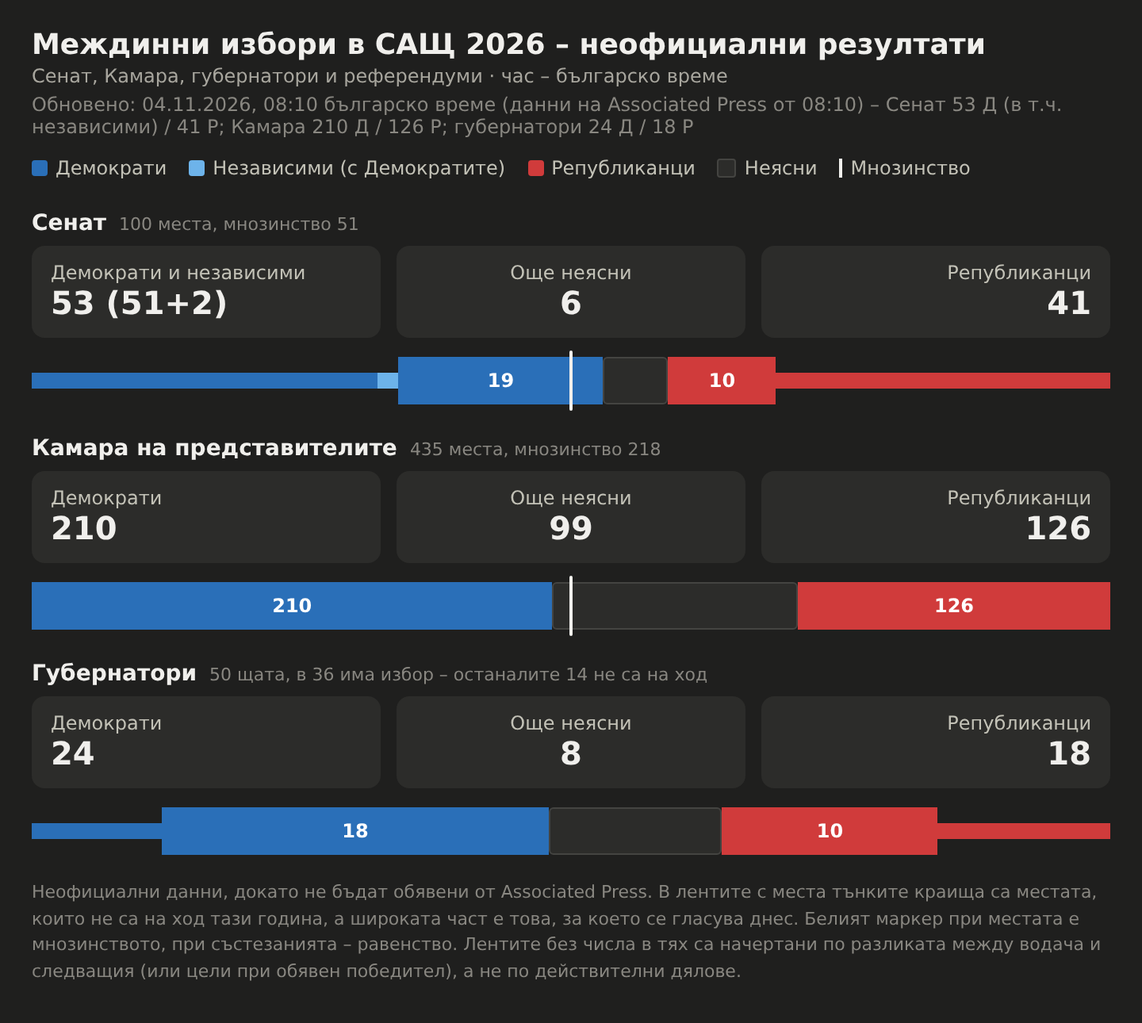
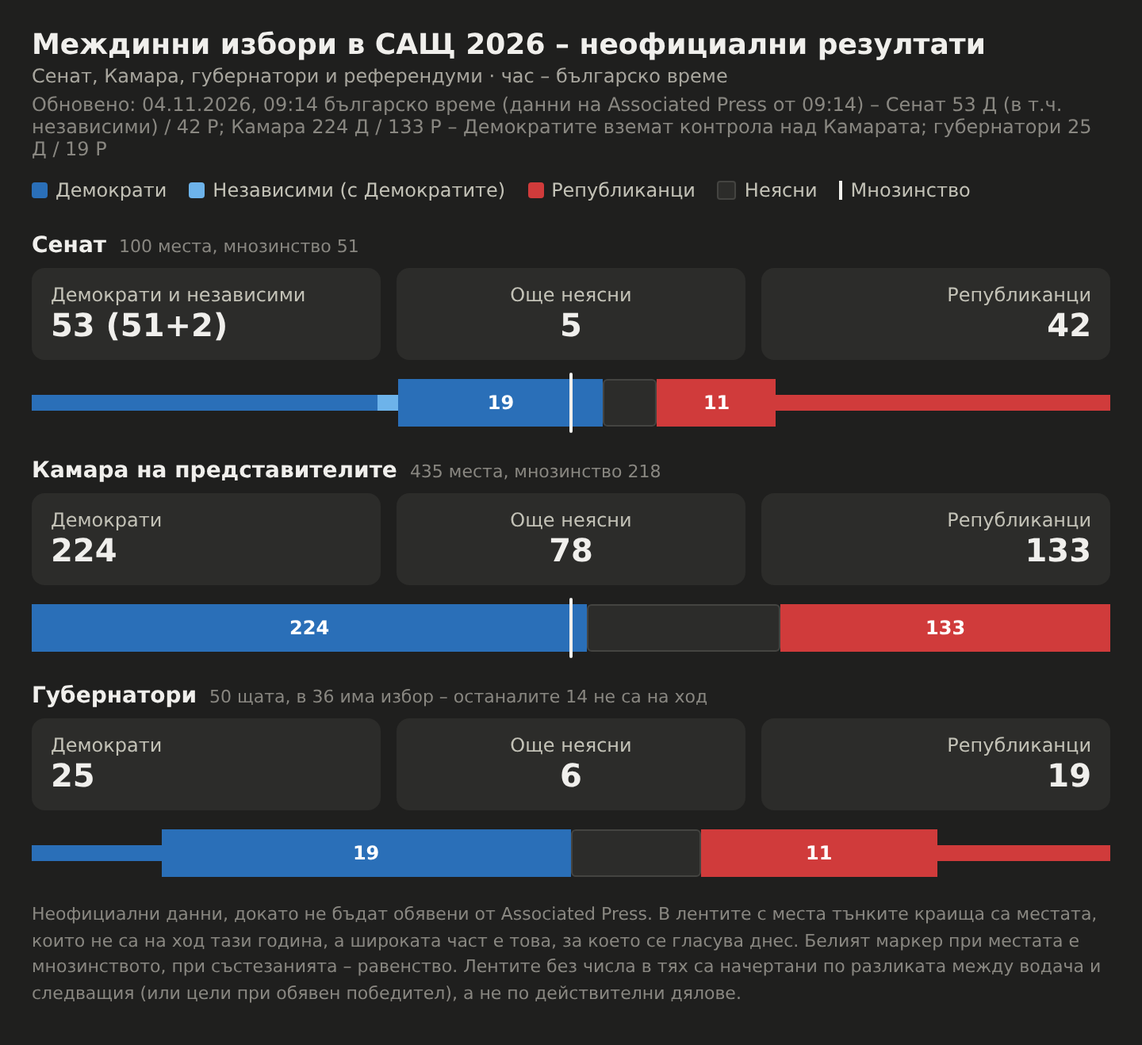
Обновяване 09:14 българско време: Демократите вземат Камарата; Сенат 53–42, губернатори 25–19
Claude-Session: https://claude.ai/code/session_013Bd4dyDeBGD9vdxVJ9tN9V

diff --git a/us-midterms-2026.11.03.html b/us-midterms-2026.11.03.html
@@ -53,13 +53,13 @@ h1{font-size:18px;font-weight:600;margin:0 0 2px}
 .empty{font-size:13px;color:var(--text-muted);padding:10px 0}
 .foot{font-size:11px;color:var(--text-muted);margin-top:16px;line-height:1.5}
 </style></head><body><div class="wrap">
-<h1>Междинни избори в САЩ 2026 – неофициални резултати</h1><div class="sub">Сенат, Камара, губернатори и референдуми · час – българско време</div><div class="upd">Обновено: 04.11.2026, 08:10 българско време (данни на Associated Press от 08:10) – Сенат 53 Д (в т.ч. независими) / 41 Р; Камара 210 Д / 126 Р; губернатори 24 Д / 18 Р</div>
+<h1>Междинни избори в САЩ 2026 – неофициални резултати</h1><div class="sub">Сенат, Камара, губернатори и референдуми · час – българско време</div><div class="upd">Обновено: 04.11.2026, 09:14 българско време (данни на Associated Press от 09:14) – Сенат 53 Д (в т.ч. независими) / 42 Р; Камара 224 Д / 133 Р – Демократите вземат контрола над Камарата; губернатори 25 Д / 19 Р</div>
 <div class="tabs" id="tabs"></div>
 <div id="view"></div>
 <div class="foot">Неофициални данни, докато не бъдат обявени от Associated Press. В лентите с места тънките краища са местата, които не са на ход тази година, а широката част е това, за което се гласува днес. Белият маркер при местата е мнозинството, при състезанията – равенство. Лентите без числа в тях са начертани по разликата между водача и следващия (или цели при обявен победител), а не по действителни дялове. Щракни на ред, за да видиш как се е променял или кои са окръзите на щата.</div>
 </div>
 <script>
-var DATA={"title": "Междинни избори в САЩ 2026 – неофициални резултати", "sub": "Сенат, Камара, губернатори и референдуми · час – българско време", "updated": "04.11.2026, 08:10 българско време (данни на Associated Press от 08:10) – Сенат 53 Д (в т.ч. независими) / 41 Р; Камара 210 Д / 126 Р; губернатори 24 Д / 18 Р", "times": ["01:30", "02:00", "02:15", "02:30", "03:30", "03:45", "04:05", "04:15", "04:20", "04:27", "05:03", "05:34", "06:08", "06:13", "06:25", "06:42", "07:08", "07:49", "08:10"], "chambers": {"sen": {"tot": 100, "mj": 51, "d": [32, 32, 33, 33, 41, 41, 43, 43, 43, 43, 43, 43, 46, 47, 48, 49, 50, 50, 51], "i": [2, 2, 2, 2, 2, 2, 2, 2, 2, 2, 2, 2, 2, 2, 2, 2, 2, 2, 2], "r": [31, 31, 31, 31, 31, 32, 34, 34, 35, 35, 36, 36, 37, 37, 38, 39, 40, 41, 41], "base": {"d": 32, "i": 2, "r": 31}}, "hou": {"tot": 435, "mj": 218, "d": [0, 0, 3, 6, 36, 44, 60, 71, 73, 79, 102, 120, 144, 145, 152, 161, 190, 204, 210], "i": [0, 0, 0, 0, 0, 0, 0, 0, 0, 0, 0, 0, 0, 0, 0, 0, 0, 0, 0], "r": [0, 0, 1, 2, 16, 21, 29, 31, 35, 41, 58, 67, 88, 92, 95, 100, 110, 123, 126], "base": {"d": 0, "i": 0, "r": 0}}, "gov": {"tot": 50, "d": [6, 6, 6, 6, 11, 11, 13, 13, 14, 15, 15, 15, 18, 19, 20, 22, 24, 24, 24], "i": [], "r": [8, 8, 8, 8, 8, 8, 9, 10, 10, 10, 10, 10, 11, 11, 11, 11, 13, 18, 18], "base": {"d": 6, "i": 0, "r": 8}}}, "senate": [["Върджиния", 100, 0, null, "<b>Обявен:</b> Демократи (Уорнър)", 1, [], 1], ["Северна Каролина", 100, 0, null, "<b>Обявен:</b> Демократи (Купър; място, което сега е на Републиканците)", 1, [], 1], ["Ню Хемпшър", 100, 0, null, "<b>Обявен:</b> Демократи (Папас)", 1, [], 1], ["Флорида", 0, 100, null, "<b>Обявена:</b> Републиканци (Муди, специален избор)", 1, [], 1], ["Кентъки", 0, 100, null, "<b>Обявен:</b> Републиканци (Бар)", 1, [], 1], ["Колорадо", 100, 0, null, "<b>Обявен:</b> Демократи (Хикенлупър)", 1, [], 1], ["Ню Мексико", 100, 0, null, "<b>Обявен:</b> Демократи (Лухан)", 1, [], 1], ["Уайоминг", 0, 100, null, "<b>Обявена:</b> Републиканци (Хагеман)", 1, [], 1], ["Джорджия", 100, 0, null, "<b>Обявен:</b> Демократи (Ософ; запазва мястото си, Колинс (Р) призна поражението)", 1, []], ["Южна Каролина", 100, 0, null, "<b>Обявена:</b> Демократи (Андрюс; място, което сега е на Републиканците)", 1, [], 1], ["Охайо", 100, 0, null, "<b>Обявен:</b> Демократи (Браун, специален избор; място, което сега е на Републиканците)", 1, [], 1], ["Тексас", 100, 0, null, "<b>Обявен:</b> Демократи (Таларико; място, което сега е на Републиканците)", 1, [], 1], ["Канзас", 100, 0, null, "<b>Обявен:</b> Демократи (Хамилтън; място, което сега е на Републиканците)", 1, [], 1], ["Мичиган", 52.6, 47.4, 72, "Води: Демократи (Ел-Саид, +5,2 пункта)", 0, [], 1], ["Мейн", 100, 0, null, "<b>Обявен:</b> Демократи (Джаксън; място, което сега е на Републиканците – Колинс)", 1, [], 1], ["Айова", 100, 0, null, "<b>Обявен:</b> Демократи (Турек; място, което сега е на Републиканците) – с него Демократите вземат контрола над Сената", 1, [], 1], ["Орегон", 100, 0, null, "<b>Обявен:</b> Демократи (Мъркли)", 1, [], 1], ["Алабама", 0, 100, null, "<b>Обявена:</b> Републиканци (Мур)", 1, [], 1], ["Тенеси", 0, 100, null, "<b>Обявен:</b> Републиканци (Хагърти)", 1, [], 1], ["Минесота", 100, 0, null, "<b>Обявена:</b> Демократи (Фланаган)", 1, [], 1], ["Южна Дакота", 0, 100, null, "<b>Обявена:</b> Републиканци (Раундс)", 1, [], 1], ["Аляска", 55.65, 44.35, 22, "Води: Демократи (Пелтола, +11,3 пункта) – преброени са малко гласове", 0, [], 1]], "gov": [["Роуд Айлънд", 100, 0, null, "<b>Обявена:</b> Демократи (Фулкс)", 1, [], 1], ["Колорадо", 100, 0, null, "<b>Обявен:</b> Демократи (Уайзър)", 1, [], 1], ["Ню Йорк", 100, 0, null, "<b>Обявена:</b> Демократи (Хокъл)", 1, [], 1], ["Уайоминг", 0, 100, null, "<b>Обявен:</b> Републиканци (Барлоу)", 1, [], 1], ["Флорида", 0, 100, null, "<b>Обявен:</b> Републиканци (Доналдс)", 1, [], 1], ["Кънектикът", 100, 0, null, "<b>Обявен:</b> Демократи (Ламонт)", 1, [], 1], ["Джорджия", 100, 0, null, "<b>Обявена:</b> Демократи (Ботъмс; място, което сега е на Републиканците)", 1, [], 1], ["Калифорния", 100, 0, null, "<b>Обявен:</b> Демократи (Бесера)", 1, [], 1], ["Айова", 100, 0, null, "<b>Обявен:</b> Демократи (Санд; място, което сега е на Републиканците)", 1, [], 1], ["Тексас", 100, 0, null, "<b>Обявена:</b> Демократи (Инохоса; място, което сега е на Републиканците)", 1, [], 1], ["Мейн", 100, 0, null, "<b>Обявена:</b> Демократи (Хана Пингри)", 1, [], 1], ["Уисконсин", 100, 0, null, "<b>Обявен:</b> Демократи (Краули)", 1, [], 1], ["Минесота", 100, 0, null, "<b>Обявен:</b> Демократи (Клобучар)", 1, [], 1], ["Хаваи", 100, 0, null, "<b>Обявен:</b> Демократи (Грийн)", 1, [], 1], ["Охайо", 100, 0, null, "<b>Обявен:</b> Демократи (смяна от Републиканци – по данни на Associated Press, видяно от потребителя; името на победителя не е проверено)", 1, [], 1], ["Тенеси", 0, 100, null, "<b>Обявен:</b> Републиканци (Блекбърн)", 1, [], 1], ["Ню Хемпшър", 0, 100, null, "<b>Обявен:</b> Републиканци (Айът)", 1, [], 1], ["Айдахо", 0, 100, null, "<b>Обявен:</b> Републиканци (Литъл)", 1, [], 1], ["Южна Каролина", 0, 100, null, "<b>Обявен:</b> Републиканци (Уилсън)", 1, [], 1], ["Върмонт", 0, 100, null, "<b>Обявен:</b> Републиканци (Скот)", 1, [], 1]], "housecontested": [["Вирджиния 1", 49.5, 50.2, 80, "Води: Републиканци", 0, []], ["Флорида 7", 49.1, 49.8, 98, "Води: Републиканци", 0, []], ["Флорида 9", 50.2, 49.8, 99, "Води: Демократи", 0, []], ["Флорида 13", 48.6, 49.5, 99, "Води: Републиканци", 0, []], ["Флорида 27", 49.8, 50.2, 95, "Води: Републиканци", 0, []], ["Вирджиния 5", 49.5, 48.8, 71, "Води: Демократи", 0, []], ["Северна Каролина 9", 51, 49, 89, "Води: Демократи", 0, []], ["Индиана 5", 52, 48, 88, "Води: Демократи", 0, []], ["Флорида 22", 52, 48, 99, "Води: Демократи", 0, []], ["Кентъки 6", 53, 43, 74, "Води: Демократи", 0, []], ["Мичиган 10", 51, 47, 11, "Води: Демократи", 0, []], ["Айова 2", 47.8, 48.7, 1, "Води: Републиканци", 0, []], ["Охайо 7", 59, 41, 43, "Води: Демократи", 0, []], ["Пенсилвания 1", 66, 34, 28, "Води: Демократи", 0, []], ["Тексас 35", 66, 34, 44, "Води: Демократи", 0, []], ["Ню Йорк 17", 57, 43, 2, "Води: Демократи", 0, []], ["Алабама 2", 38, 62, 8, "Води: Републиканци", 0, []], ["Мичиган 4", 27, 71, 1, "Води: Републиканци", 0, []]], "housestates": [], "measures": [["Мисури – Поправка 3 (аборти)", 43.7, 56.3, 73.2, "Води: Против", 0, [], 0, "Предложена поправка в конституцията на Мисури. Тя отменя правото на аборт до жизнеспособността на плода и позволява аборт само при медицинска спешност, аномалия на плода, или при изнасилване или кръвосмешение до 12-ата седмица от бременността. Забранява и лечения и операции за смяна на пола при непълнолетни."], ["Върджиния – Въпрос 1 (репродуктивни права)", 61.4, 38.6, 85.5, "Води: За", 0, [], 0, "Предложена поправка в конституцията на Върджиния. Тя създава репродуктивни права, включително право на аборт, на контрацепция и на грижи за плодовитостта. Абортът може да се регулира през третия триместър, но трябва да бъде разрешен, за да се защити животът или здравето на бременната жена или когато плодът не е жизнеспособен."], ["Върджиния – Въпрос 2 (брак)", 56.2, 43.8, 69.8, "Води: За", 0, [], 0, "Предложена поправка в конституцията на Върджиния. Тя отменя ограничението бракът да е само между мъж и жена и вместо това заявява, че на двама възрастни не може да се отказва брак заради пол, полова идентичност или раса."], ["Върджиния – Въпрос 3 (право на глас)", 55.4, 44.6, 85.7, "Води: За", 0, [], 0, "Предложена поправка в конституцията на Върджиния. Тя създава основно право да се гласува и възстановява отнетите избирателни права на осъдени за тежки престъпления, след като бъдат освободени от затвора."], ["Мисури – Предложение A (нови окръзи за Камарата)", 37.6, 62.4, 71.7, "Води: Против", 0, [], 0, "Референдум, в който гласоподавателите в Мисури решават дали да се приемат новите окръзи за Камарата на представителите на САЩ, приети от законодателите на щата през 2025 г."], ["Мериленд – Въпрос 3 (окръзи за Конгреса)", 60.0, 40.0, 62, "Води: За", 0, [], 0, "Предложена поправка в конституцията на Мериленд. Тя премахва ограниченията при прекрояването на окръзите за Конгреса. Изискването окръзите да са компактни и да уважават „природните граници“ ще важи само за окръзите на законодателния орган на щата, а не за окръзите за Конгреса."], ["Охайо – Въпрос 3 (документ със снимка)", 66.0, 34.0, 79.8, "Води: За", 0, [], 0, "Предложена поправка в конституцията на Охайо. Тя изисква държавен документ със снимка, за да се гласува лично, с изключение за религиозни убеждения. Който гласува по друг начин, трябва да представи или документ със снимка, или номер на държавен документ за самоличност."], ["Северна Каролина – Поправка SB 921 (документ със снимка)", 59.7, 40.3, 95.6, "Води: За", 0, [], 0, "Предложена поправка в конституцията на Северна Каролина. Тя изисква документ със снимка, за да се гласува по какъвто и да е начин, а не само когато се гласува лично."], ["Канзас – Поправка 1 (неграждани)", 61.3, 38.7, 73.3, "Води: За", 0, [], 0, "Предложена поправка в конституцията на Канзас. Тя забранява на неграждани да гласуват на избори."], ["Масачузетс – Въпрос 3 (отворени първични избори)", 38.6, 61.4, 24.6, "Води: Против", 0, [], 0, "Мярката премахва отделните първични избори на партиите и въвежда отворени първични избори, в които двамата с най-много гласове преминават към общите избори. Изисква и кандидатите за губернатор да бъдат в двойка с кандидат за заместник-губернатор в първичните избори."], ["Масачузетс – Въпрос 8 (марихуана)", 20.4, 79.6, 4.5, "Води: Против", 0, [], 0, "Мярката отменя законите, които позволяват законна продажба на марихуана за развлекателни цели, но не налага наказателни санкции за притежание на по-малко от две унции. Медицинската марихуана остава законна."], ["Колорадо – Поправка 81 (имиграция)", 44.2, 55.8, 62.3, "Води: Против", 0, [], 0, "Предложена поправка в конституцията на Колорадо. Тя изисква служителите на реда да уведомяват Министерството на вътрешната сигурност на САЩ, когато обвиняват хора в тежки престъпления или, при хора с предишни присъди за тежки престъпления, в което и да е престъпление, ако може да са в САЩ незаконно."], ["Колорадо – Предложение 135 (непълнолетни и смяна на пола)", 51.05, 48.95, 62, "Води: За", 0, [], 0, "Мярката забранява операции за промяна на половите белези на непълнолетни в отговор на възприеманата полова идентичност или пол на детето. Забранява и държавно финансиране за такива операции."], ["Тенеси – Поправка 2 (данъци върху имоти)", 66.2, 33.8, 71.6, "Води: За", 0, [], 0, "Предложена поправка в конституцията на Тенеси. Тя забранява на щата да налага данъци върху имоти."], ["Северна Дакота – Мярка 2 (безплатни училищни обяди)", 44.6, 55.4, 11.3, "Води: Против", 0, [], 0, "Предложена поправка в конституцията на Северна Дакота. Тя изисква държавните училища да осигуряват безплатна закуска и обяд на всички ученици."], ["Арканзас – Въпрос 1 (неграждани)", 68.2, 31.8, 75.3, "Води: За", 0, [], 1, "Предложена поправка в конституцията на Арканзас. Тя заявява, че само граждани могат да гласуват на избори на щата и местни избори."], ["Аризона – Предложение 144 (неграждани и документ за самоличност)", 43.0, 57.0, 66.9, "Води: Против", 0, [], 1, "Предложена поправка в конституцията на Аризона. Тя забранява на неграждани да гласуват, изисква държавен документ за самоличност за гласуване и забранява чужди вноски и разходи в изборите."], ["Масачузетс – Въпрос 4 (регистрация в деня на изборите)", 59.5, 40.5, 23, "Води: За", 0, [], 1, "Мярката позволява регистрация за гласуване в избирателните секции в деня на изборите и отменя изискването за регистрация поне 10 дни преди изборите."], ["Северна Дакота – Мярка 1 (60% за поправки)", 44.2, 55.8, 60.1, "Води: Против", 0, [], 1, "Предложена поправка в конституцията на Северна Дакота. Тя изисква 60% подкрепа от гласоподавателите, за да се приемат бъдещи поправки в конституцията."], ["Южна Дакота – Поправка L (60% за поправки)", 42.4, 57.6, 24, "Води: Против", 0, [], 1, "Предложена поправка в конституцията на Южна Дакота. Тя изисква 60% подкрепа от гласоподавателите, за да се приемат бъдещи поправки в конституцията."]], "foot": "Неофициални данни, докато не бъдат обявени от Associated Press. В лентите с места тънките краища са местата, които не са на ход тази година, а широката част е това, за което се гласува днес. Белият маркер при местата е мнозинството, при състезанията – равенство. Лентите без числа в тях са начертани по разликата между водача и следващия (или цели при обявен победител), а не по действителни дялове. Щракни на ред, за да видиш как се е променял или кои са окръзите на щата."};
+var DATA={"title": "Междинни избори в САЩ 2026 – неофициални резултати", "sub": "Сенат, Камара, губернатори и референдуми · час – българско време", "updated": "04.11.2026, 09:14 българско време (данни на Associated Press от 09:14) – Сенат 53 Д (в т.ч. независими) / 42 Р; Камара 224 Д / 133 Р – Демократите вземат контрола над Камарата; губернатори 25 Д / 19 Р", "times": ["01:30", "02:00", "02:15", "02:30", "03:30", "03:45", "04:05", "04:15", "04:20", "04:27", "05:03", "05:34", "06:08", "06:13", "06:25", "06:42", "07:08", "07:49", "08:10", "09:14"], "chambers": {"sen": {"tot": 100, "mj": 51, "d": [32, 32, 33, 33, 41, 41, 43, 43, 43, 43, 43, 43, 46, 47, 48, 49, 50, 50, 51, 51], "i": [2, 2, 2, 2, 2, 2, 2, 2, 2, 2, 2, 2, 2, 2, 2, 2, 2, 2, 2, 2], "r": [31, 31, 31, 31, 31, 32, 34, 34, 35, 35, 36, 36, 37, 37, 38, 39, 40, 41, 41, 42], "base": {"d": 32, "i": 2, "r": 31}}, "hou": {"tot": 435, "mj": 218, "d": [0, 0, 3, 6, 36, 44, 60, 71, 73, 79, 102, 120, 144, 145, 152, 161, 190, 204, 210, 224], "i": [0, 0, 0, 0, 0, 0, 0, 0, 0, 0, 0, 0, 0, 0, 0, 0, 0, 0, 0, 0], "r": [0, 0, 1, 2, 16, 21, 29, 31, 35, 41, 58, 67, 88, 92, 95, 100, 110, 123, 126, 133], "base": {"d": 0, "i": 0, "r": 0}}, "gov": {"tot": 50, "d": [6, 6, 6, 6, 11, 11, 13, 13, 14, 15, 15, 15, 18, 19, 20, 22, 24, 24, 24, 25], "i": [], "r": [8, 8, 8, 8, 8, 8, 9, 10, 10, 10, 10, 10, 11, 11, 11, 11, 13, 18, 18, 19], "base": {"d": 6, "i": 0, "r": 8}}}, "senate": [["Върджиния", 100, 0, null, "<b>Обявен:</b> Демократи (Уорнър)", 1, [], 1], ["Северна Каролина", 100, 0, null, "<b>Обявен:</b> Демократи (Купър; място, което сега е на Републиканците)", 1, [], 1], ["Ню Хемпшър", 100, 0, null, "<b>Обявен:</b> Демократи (Папас)", 1, [], 1], ["Флорида", 0, 100, null, "<b>Обявена:</b> Републиканци (Муди, специален избор)", 1, [], 1], ["Кентъки", 0, 100, null, "<b>Обявен:</b> Републиканци (Бар)", 1, [], 1], ["Колорадо", 100, 0, null, "<b>Обявен:</b> Демократи (Хикенлупър)", 1, [], 1], ["Ню Мексико", 100, 0, null, "<b>Обявен:</b> Демократи (Лухан)", 1, [], 1], ["Уайоминг", 0, 100, null, "<b>Обявена:</b> Републиканци (Хагеман)", 1, [], 1], ["Джорджия", 100, 0, null, "<b>Обявен:</b> Демократи (Ософ; запазва мястото си, Колинс (Р) призна поражението)", 1, []], ["Южна Каролина", 100, 0, null, "<b>Обявена:</b> Демократи (Андрюс; място, което сега е на Републиканците)", 1, [], 1], ["Охайо", 100, 0, null, "<b>Обявен:</b> Демократи (Браун, специален избор; място, което сега е на Републиканците)", 1, [], 1], ["Тексас", 100, 0, null, "<b>Обявен:</b> Демократи (Таларико; място, което сега е на Републиканците)", 1, [], 1], ["Канзас", 100, 0, null, "<b>Обявен:</b> Демократи (Хамилтън; място, което сега е на Републиканците)", 1, [], 1], ["Мичиган", 52.8, 47.2, 82, "Води: Демократи (Ел-Саид, +5,6 пункта)", 0, [], 1], ["Мейн", 100, 0, null, "<b>Обявен:</b> Демократи (Джаксън; място, което сега е на Републиканците – Колинс)", 1, [], 1], ["Айова", 100, 0, null, "<b>Обявен:</b> Демократи (Турек; място, което сега е на Републиканците) – с него Демократите вземат контрола над Сената", 1, [], 1], ["Орегон", 100, 0, null, "<b>Обявен:</b> Демократи (Мъркли)", 1, [], 1], ["Алабама", 0, 100, null, "<b>Обявена:</b> Републиканци (Мур)", 1, [], 1], ["Тенеси", 0, 100, null, "<b>Обявен:</b> Републиканци (Хагърти)", 1, [], 1], ["Минесота", 100, 0, null, "<b>Обявена:</b> Демократи (Фланаган)", 1, [], 1], ["Южна Дакота", 0, 100, null, "<b>Обявена:</b> Републиканци (Раундс)", 1, [], 1], ["Аляска", 50.25, 49.75, 54, "Води: Демократи (Пелтола, под 1 пункт) – преднината се стопи от +11,3", 0, [], 1], ["Айдахо", 0, 100, null, "<b>Обявен:</b> Републиканци (Риш)", 1, [], 1]], "gov": [["Роуд Айлънд", 100, 0, null, "<b>Обявена:</b> Демократи (Фулкс)", 1, [], 1], ["Колорадо", 100, 0, null, "<b>Обявен:</b> Демократи (Уайзър)", 1, [], 1], ["Ню Йорк", 100, 0, null, "<b>Обявена:</b> Демократи (Хокъл)", 1, [], 1], ["Уайоминг", 0, 100, null, "<b>Обявен:</b> Републиканци (Барлоу)", 1, [], 1], ["Флорида", 0, 100, null, "<b>Обявен:</b> Републиканци (Доналдс)", 1, [], 1], ["Кънектикът", 100, 0, null, "<b>Обявен:</b> Демократи (Ламонт)", 1, [], 1], ["Джорджия", 100, 0, null, "<b>Обявена:</b> Демократи (Ботъмс; място, което сега е на Републиканците)", 1, [], 1], ["Калифорния", 100, 0, null, "<b>Обявен:</b> Демократи (Бесера)", 1, [], 1], ["Айова", 100, 0, null, "<b>Обявен:</b> Демократи (Санд; място, което сега е на Републиканците)", 1, [], 1], ["Тексас", 100, 0, null, "<b>Обявена:</b> Демократи (Инохоса; място, което сега е на Републиканците)", 1, [], 1], ["Мейн", 100, 0, null, "<b>Обявена:</b> Демократи (Хана Пингри)", 1, [], 1], ["Уисконсин", 100, 0, null, "<b>Обявен:</b> Демократи (Краули)", 1, [], 1], ["Минесота", 100, 0, null, "<b>Обявен:</b> Демократи (Клобучар)", 1, [], 1], ["Хаваи", 100, 0, null, "<b>Обявен:</b> Демократи (Грийн)", 1, [], 1], ["Охайо", 100, 0, null, "<b>Обявен:</b> Демократи (смяна от Републиканци – по данни на Associated Press, видяно от потребителя; името на победителя не е проверено)", 1, [], 1], ["Тенеси", 0, 100, null, "<b>Обявен:</b> Републиканци (Блекбърн)", 1, [], 1], ["Ню Хемпшър", 0, 100, null, "<b>Обявен:</b> Републиканци (Айът)", 1, [], 1], ["Айдахо", 0, 100, null, "<b>Обявен:</b> Републиканци (Литъл)", 1, [], 1], ["Южна Каролина", 0, 100, null, "<b>Обявен:</b> Републиканци (Уилсън)", 1, [], 1], ["Върмонт", 0, 100, null, "<b>Обявен:</b> Републиканци (Скот)", 1, [], 1], ["Мичиган", 100, 0, null, "<b>Обявена:</b> Демократи (Бенсън)", 1, [], 1], ["Алабама", 0, 100, null, "<b>Обявен:</b> Републиканци (Тъбървил)", 1, [], 1]], "housecontested": [["Вирджиния 1", 49.5, 50.2, 80, "Води: Републиканци", 0, []], ["Флорида 7", 49.1, 49.8, 98, "Води: Републиканци", 0, []], ["Флорида 9", 50.2, 49.8, 99, "Води: Демократи", 0, []], ["Флорида 13", 48.6, 49.5, 99, "Води: Републиканци", 0, []], ["Флорида 27", 49.8, 50.2, 95, "Води: Републиканци", 0, []], ["Вирджиния 5", 49.5, 48.8, 71, "Води: Демократи", 0, []], ["Северна Каролина 9", 51, 49, 89, "Води: Демократи", 0, []], ["Индиана 5", 52, 48, 88, "Води: Демократи", 0, []], ["Флорида 22", 52, 48, 99, "Води: Демократи", 0, []], ["Кентъки 6", 53, 43, 74, "Води: Демократи", 0, []], ["Мичиган 10", 51, 47, 11, "Води: Демократи", 0, []], ["Айова 2", 47.8, 48.7, 1, "Води: Републиканци", 0, []], ["Охайо 7", 59, 41, 43, "Води: Демократи", 0, []], ["Пенсилвания 1", 66, 34, 28, "Води: Демократи", 0, []], ["Тексас 35", 66, 34, 44, "Води: Демократи", 0, []], ["Ню Йорк 17", 57, 43, 2, "Води: Демократи", 0, []], ["Алабама 2", 38, 62, 8, "Води: Републиканци", 0, []], ["Мичиган 4", 27, 71, 1, "Води: Републиканци", 0, []]], "housestates": [], "measures": [["Мисури – Поправка 3 (аборти)", 43.7, 56.3, 73.2, "Води: Против", 0, [], 0, "Предложена поправка в конституцията на Мисури. Тя отменя правото на аборт до жизнеспособността на плода и позволява аборт само при медицинска спешност, аномалия на плода, или при изнасилване или кръвосмешение до 12-ата седмица от бременността. Забранява и лечения и операции за смяна на пола при непълнолетни."], ["Върджиния – Въпрос 1 (репродуктивни права)", 61.4, 38.6, 85.5, "Води: За", 0, [], 0, "Предложена поправка в конституцията на Върджиния. Тя създава репродуктивни права, включително право на аборт, на контрацепция и на грижи за плодовитостта. Абортът може да се регулира през третия триместър, но трябва да бъде разрешен, за да се защити животът или здравето на бременната жена или когато плодът не е жизнеспособен."], ["Върджиния – Въпрос 2 (брак)", 56.2, 43.8, 69.8, "Води: За", 0, [], 0, "Предложена поправка в конституцията на Върджиния. Тя отменя ограничението бракът да е само между мъж и жена и вместо това заявява, че на двама възрастни не може да се отказва брак заради пол, полова идентичност или раса."], ["Върджиния – Въпрос 3 (право на глас)", 55.4, 44.6, 85.7, "Води: За", 0, [], 0, "Предложена поправка в конституцията на Върджиния. Тя създава основно право да се гласува и възстановява отнетите избирателни права на осъдени за тежки престъпления, след като бъдат освободени от затвора."], ["Мисури – Предложение A (нови окръзи за Камарата)", 37.6, 62.4, 71.7, "Води: Против", 0, [], 0, "Референдум, в който гласоподавателите в Мисури решават дали да се приемат новите окръзи за Камарата на представителите на САЩ, приети от законодателите на щата през 2025 г."], ["Мериленд – Въпрос 3 (окръзи за Конгреса)", 60.0, 40.0, 62, "Води: За", 0, [], 0, "Предложена поправка в конституцията на Мериленд. Тя премахва ограниченията при прекрояването на окръзите за Конгреса. Изискването окръзите да са компактни и да уважават „природните граници“ ще важи само за окръзите на законодателния орган на щата, а не за окръзите за Конгреса."], ["Охайо – Въпрос 3 (документ със снимка)", 66.0, 34.0, 79.8, "Води: За", 0, [], 0, "Предложена поправка в конституцията на Охайо. Тя изисква държавен документ със снимка, за да се гласува лично, с изключение за религиозни убеждения. Който гласува по друг начин, трябва да представи или документ със снимка, или номер на държавен документ за самоличност."], ["Северна Каролина – Поправка SB 921 (документ със снимка)", 59.7, 40.3, 95.6, "Води: За", 0, [], 0, "Предложена поправка в конституцията на Северна Каролина. Тя изисква документ със снимка, за да се гласува по какъвто и да е начин, а не само когато се гласува лично."], ["Канзас – Поправка 1 (неграждани)", 61.3, 38.7, 73.3, "Води: За", 0, [], 0, "Предложена поправка в конституцията на Канзас. Тя забранява на неграждани да гласуват на избори."], ["Масачузетс – Въпрос 3 (отворени първични избори)", 38.6, 61.4, 24.6, "Води: Против", 0, [], 0, "Мярката премахва отделните първични избори на партиите и въвежда отворени първични избори, в които двамата с най-много гласове преминават към общите избори. Изисква и кандидатите за губернатор да бъдат в двойка с кандидат за заместник-губернатор в първичните избори."], ["Масачузетс – Въпрос 8 (марихуана)", 20.4, 79.6, 4.5, "Води: Против", 0, [], 0, "Мярката отменя законите, които позволяват законна продажба на марихуана за развлекателни цели, но не налага наказателни санкции за притежание на по-малко от две унции. Медицинската марихуана остава законна."], ["Колорадо – Поправка 81 (имиграция)", 44.2, 55.8, 62.3, "Води: Против", 0, [], 0, "Предложена поправка в конституцията на Колорадо. Тя изисква служителите на реда да уведомяват Министерството на вътрешната сигурност на САЩ, когато обвиняват хора в тежки престъпления или, при хора с предишни присъди за тежки престъпления, в което и да е престъпление, ако може да са в САЩ незаконно."], ["Колорадо – Предложение 135 (непълнолетни и смяна на пола)", 51.05, 48.95, 62, "Води: За", 0, [], 0, "Мярката забранява операции за промяна на половите белези на непълнолетни в отговор на възприеманата полова идентичност или пол на детето. Забранява и държавно финансиране за такива операции."], ["Тенеси – Поправка 2 (данъци върху имоти)", 66.2, 33.8, 71.6, "Води: За", 0, [], 0, "Предложена поправка в конституцията на Тенеси. Тя забранява на щата да налага данъци върху имоти."], ["Северна Дакота – Мярка 2 (безплатни училищни обяди)", 44.6, 55.4, 11.3, "Води: Против", 0, [], 0, "Предложена поправка в конституцията на Северна Дакота. Тя изисква държавните училища да осигуряват безплатна закуска и обяд на всички ученици."], ["Арканзас – Въпрос 1 (неграждани)", 68.2, 31.8, 75.3, "Води: За", 0, [], 1, "Предложена поправка в конституцията на Арканзас. Тя заявява, че само граждани могат да гласуват на избори на щата и местни избори."], ["Аризона – Предложение 144 (неграждани и документ за самоличност)", 43.0, 57.0, 66.9, "Води: Против", 0, [], 1, "Предложена поправка в конституцията на Аризона. Тя забранява на неграждани да гласуват, изисква държавен документ за самоличност за гласуване и забранява чужди вноски и разходи в изборите."], ["Масачузетс – Въпрос 4 (регистрация в деня на изборите)", 59.5, 40.5, 23, "Води: За", 0, [], 1, "Мярката позволява регистрация за гласуване в избирателните секции в деня на изборите и отменя изискването за регистрация поне 10 дни преди изборите."], ["Северна Дакота – Мярка 1 (60% за поправки)", 44.2, 55.8, 60.1, "Води: Против", 0, [], 1, "Предложена поправка в конституцията на Северна Дакота. Тя изисква 60% подкрепа от гласоподавателите, за да се приемат бъдещи поправки в конституцията."], ["Южна Дакота – Поправка L (60% за поправки)", 42.4, 57.6, 24, "Води: Против", 0, [], 1, "Предложена поправка в конституцията на Южна Дакота. Тя изисква 60% подкрепа от гласоподавателите, за да се приемат бъдещи поправки в конституцията."]], "foot": "Неофициални данни, докато не бъдат обявени от Associated Press. В лентите с места тънките краища са местата, които не са на ход тази година, а широката част е това, за което се гласува днес. Белият маркер при местата е мнозинството, при състезанията – равенство. Лентите без числа в тях са начертани по разликата между водача и следващия (или цели при обявен победител), а не по действителни дялове. Щракни на ред, за да видиш как се е променял или кои са окръзите на щата."};
 var D='#2a6fb8',I='#6db3ea',R='#d03b3b',Y='#1baf7a',N='#eb6834';
 var f=function(v){return String(Math.round(v*10)/10).replace('.',',')+'%'};
 var leg=function(a,lm){return '<div class="leg">'+a.map(function(x){return '<span><i class="sw" style="background:'+x[0]+(x[2]?';border:1px solid var(--border)':'')+'"></i>'+x[1]+'</span>'}).join('')+'<span><i class="mk"></i>'+lm+'</span></div>'};
